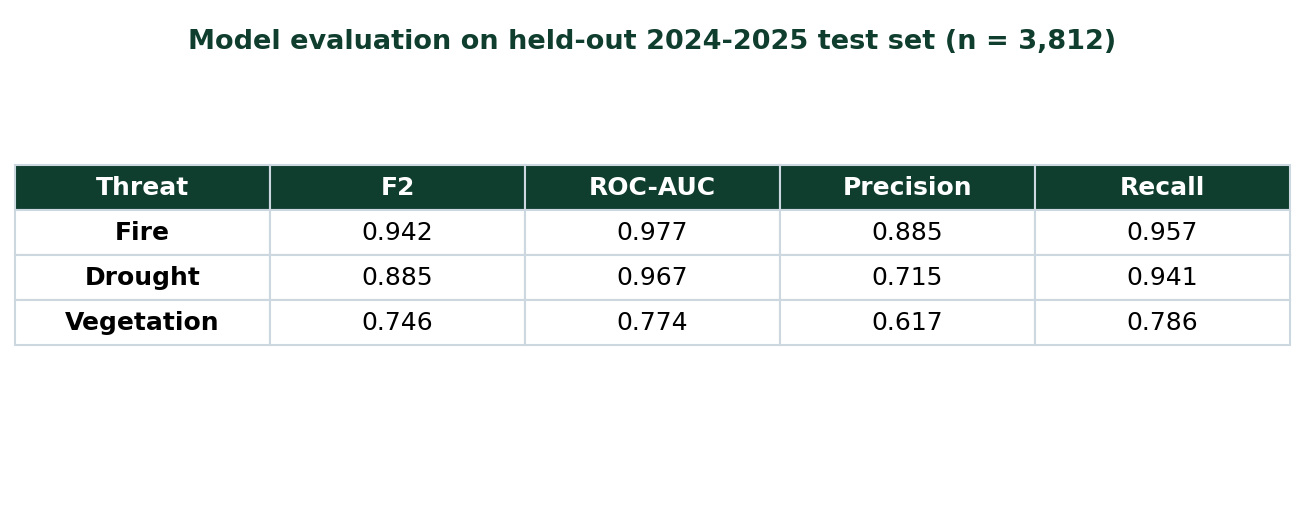
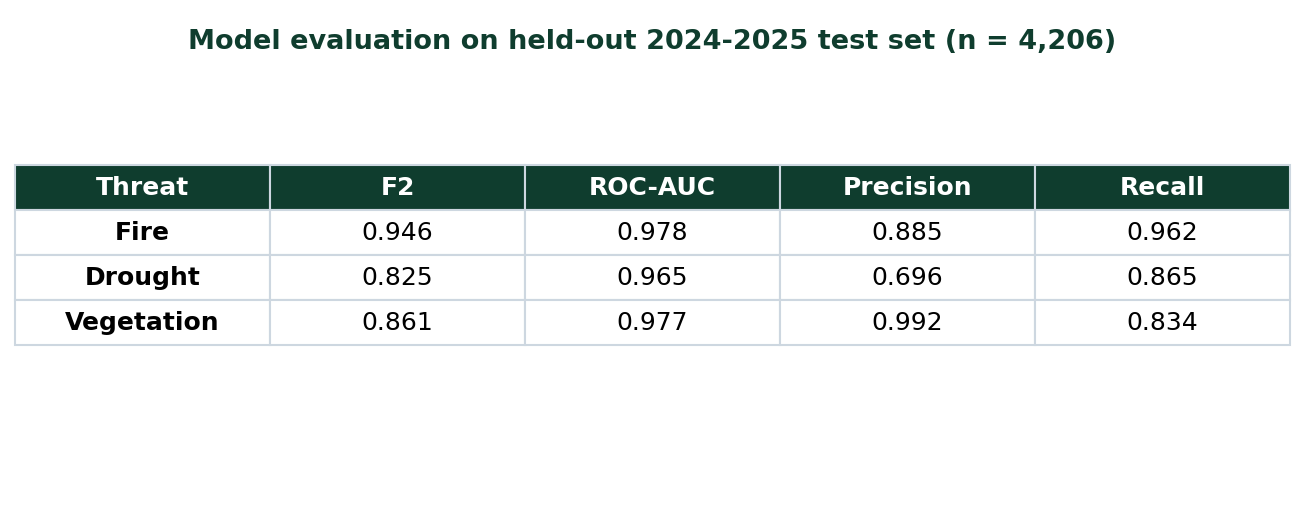
Update docs with post-fix MOD13Q1 metrics; reframe vegetation limitation as resolved (step 6)

diff --git a/docs/ANALYSIS.md b/docs/ANALYSIS.md
@@ -9,12 +9,18 @@ what the milestones mean, and gives recommendations and future work.
 The proposal set out to forecast three threats over a 30-day window for six parks:
 fire, drought, and vegetation degradation. The project met this objective. The
 deployed model produces daily forecasts for all six parks. On a held-out 2024 to
-2025 test set the model scored an F2 of 0.94 for fire, 0.89 for drought, and 0.75
-for vegetation. The fire and drought results are strong. Vegetation is weaker, which
-the discussion examines. Measured against a persistence baseline, the naive forecast
-that the next 30 days resemble the last 30, the model wins on every threat, and by a
-wide margin on drought (F2 0.89 versus 0.40) and fire (0.94 versus 0.78). It is
-therefore learning real structure rather than repeating recent history.
+2025 test set the model scored an F2 of 0.95 for fire, 0.83 for drought, and 0.86
+for vegetation, with ROC-AUC above 0.96 on all three. Fire and vegetation are strong.
+Drought ranks risk just as well (ROC-AUC 0.965) but its F2 sits lower at the fixed 0.5
+threshold; at its best threshold it recovers to about 0.86, so the gap is an
+operating-point effect rather than lost skill. Measured against a persistence baseline,
+the naive forecast that the next 30 days resemble the last 30, the model wins on every
+threat, so it is learning real structure rather than repeating recent history.
+
+Vegetation reached this level only after the limitation described below was fixed. The
+first deployed model collapsed to a near-constant vegetation output because its optical
+NDVI was cloud-blocked in the rainy season; moving to the cloud-composited MODIS MOD13Q1
+source and retraining raised vegetation ROC-AUC from 0.77 to 0.98.
 
 The proposal also called for a comparison of eight model configurations: Random
 Forest, XGBoost, LSTM, and Transformer, each in a supervised and a semi-supervised
@@ -78,17 +84,26 @@ limitation. The drought and vegetation evaluation therefore measures consistency
 with the data the labels came from in part, rather than against a fully independent
 ground truth.
 
-Vegetation forecasting is the weakest part of the system, and a live observation
-sharpened why. Vegetation risk is driven by NDVI, an optical satellite index, and two
-problems compound. First, the model was trained on Sentinel-2 NDVI, but the live
-pipeline reads NDVI from MODIS, a different sensor, so inference sees a source the
-model did not learn on. Second, optical NDVI is blocked by cloud, and during the
-rainy season the daily source is unavailable for most parks, so the vegetation input
-falls back to an imputed value. When that happens the vegetation forecast collapses to
-a near-constant output: on 30 June 2026, five of the six parks returned an identical
-vegetation probability of 0.53, and only the arid Sahel park, Chad Basin, which keeps
-clear-sky NDVI, differed. The vegetation figures should therefore be read with low
-confidence during cloudy periods.
+Vegetation forecasting was the weakest part of the system, and a live observation
+sharpened why, before it was fixed. Vegetation risk is driven by NDVI, an optical
+satellite index, and two problems compounded. First, the model had been trained on
+Sentinel-2 NDVI while the live pipeline read NDVI from MODIS, a different sensor, so
+inference saw a source the model had not learned on. Second, optical NDVI is blocked by
+cloud, and during the rainy season the daily source was unavailable for most parks, so
+the vegetation input fell back to an imputed value. When that happened the vegetation
+forecast collapsed to a near-constant output: on 30 June 2026, five of the six parks
+returned an identical vegetation probability of 0.53, and only the arid Sahel park,
+Chad Basin, which keeps clear-sky NDVI, differed.
+
+This has since been resolved. Both the training and the live serving pipeline were moved
+onto one cloud-robust source, the 16-day MODIS MOD13Q1 composite, which removes both the
+sensor mismatch and the cloud gaps. The model was retrained and re-validated, the
+production database was migrated, and the fix was redeployed. Vegetation now varies
+properly across parks and seasons instead of collapsing, and its held-out ROC-AUC rose
+from 0.77 to 0.98. One caveat remains: the vegetation label is still derived from NDVI,
+the same signal the features use, so the absolute score carries the label-leakage caveat
+above; the genuine gain is that the forecast is no longer degenerate and now
+discriminates.
 
 The threat set follows what free satellite and climate data can measure. It does not
 cover the threats the proposal itself identifies as central to Nigerian parks, such
@@ -126,14 +141,13 @@ apply local knowledge, especially for the threats the model does not cover.
 
 Future work follows from the limitations.
 
-- Move vegetation onto a cloud-robust NDVI source and align training with serving.
-  Replace the daily optical NDVI with a cloud-composited product (the 16-day MODIS
-  MOD13Q1, which keeps the best clear pixel per window) as the primary signal, and add
-  Sentinel-1 radar, which sees through cloud, as a backup for days optical fails.
-  Rebuild the training data on the same source the live system serves so the model no
-  longer faces a sensor mismatch, then retrain and re-validate. Impute any remaining
-  gaps with each park's seasonal NDVI baseline rather than a global default, and mark
-  the vegetation forecast low-confidence when coverage is poor.
+- Cloud-robust vegetation sensing (done, with extensions remaining). The core of this
+  was implemented after submission: both training and serving now use the 16-day MODIS
+  MOD13Q1 composite, which removed the sensor mismatch and the cloud gaps, and the model
+  was retrained, the database migrated, and the fix redeployed (vegetation ROC-AUC rose
+  from 0.77 to 0.98). Remaining extensions: add Sentinel-1 radar as a cloud-independent
+  backup, impute any residual gaps with each park's seasonal NDVI baseline rather than a
+  global default, and flag the vegetation forecast low-confidence when coverage is poor.
 - Replace the climate-derived drought and vegetation labels with independent ground
   truth to remove the label leakage.
 - Add deployment logging so the system tracks actual unit use against the 30-day

diff --git a/docs/TESTING.md b/docs/TESTING.md
@@ -47,19 +47,23 @@ Result: `17 passed`.
 
 ### 1.2 Model evaluation on held-out data
 The model was trained on 2020 to 2023 and evaluated on a temporally separate
-2024 to 2025 test set (n = 3,812 park-day rows it never saw during training).
+2024 to 2025 test set (n = 4,206 park-day rows it never saw during training).
 F2 is the primary metric because missing a real threat is worse than a false alarm.
+These figures are for the current model, which sources NDVI from the cloud-composited
+MODIS MOD13Q1 product (see the vegetation note in `ANALYSIS.md`).
 
 | Threat | F2 | Persistence F2 (baseline) | ROC-AUC | Precision | Recall |
 |---|---|---|---|---|---|
-| Fire | 0.942 | 0.780 | 0.977 | 0.885 | 0.957 |
-| Drought | 0.885 | 0.399 | 0.967 | 0.715 | 0.941 |
-| Vegetation | 0.746 | 0.480 | 0.774 | 0.617 | 0.786 |
+| Fire | 0.946 | 0.780 | 0.978 | 0.885 | 0.962 |
+| Drought | 0.825 | 0.354 | 0.965 | 0.696 | 0.865 |
+| Vegetation | 0.861 | 0.708 | 0.977 | 0.992 | 0.834 |
 
 The persistence baseline (the naive forecast that assumes the next 30 days resemble the
-last 30) is the minimum useful-forecast bar. The model clears it on every threat, most
-decisively on drought (0.885 vs 0.399). Fire and drought are strong; vegetation is
-moderate, which the analysis discusses.
+last 30) is the minimum useful-forecast bar. The model clears it on every threat. Fire
+and vegetation are strong. Drought ranks risk just as well (ROC-AUC 0.965) but its F2 is
+lower at the fixed 0.5 threshold; at its best threshold drought F2 recovers to about 0.86,
+so this is an operating-point effect rather than lost skill. Vegetation ROC-AUC rose from
+0.77 to 0.98 once the earlier rainy-season NDVI collapse was fixed.
 
 ![Model evaluation metrics on the held-out test set](screenshots/model_metrics.png)
 *Held-out 2024-2025 test metrics for the production model.*
@@ -172,7 +176,7 @@ single column on small screens.
 | Strategy | Outcome |
 |---|---|
 | Unit tests (pytest) | 17 / 17 pass |
-| Model evaluation (held-out 2024-2025) | Fire F2 0.94, Drought F2 0.89, Vegetation F2 0.75 |
+| Model evaluation (held-out 2024-2025) | Fire F2 0.95, Drought F2 0.83, Vegetation F2 0.86 (ROC-AUC 0.98) |
 | Integration / API | All endpoints behave as specified, including auth and the job token |
 | End-to-end (browser) | Full journey works on the deployed site |
 | Different data values | Recommender scales with budget and stays within it; per-park forecasts differ |

diff --git a/README.md b/README.md
@@ -163,7 +163,7 @@ Run the automated test suite from the project root:
 python -m pytest tests/ -v
 ```
 
-17 unit tests pass, covering the ILP optimiser (budget, capacity, type toggles, urgency floors) and authentication (bcrypt hashing, password policy, JWT access / reset tokens). The full testing record — unit tests, model evaluation on a held-out 2024–2025 test set (Fire F2 0.94, Drought 0.89, Vegetation 0.75), API / integration tests, different-data-value runs, and performance across local and cloud — is in **[`docs/TESTING.md`](docs/TESTING.md)**.
+19 unit tests pass, covering the ILP optimiser (budget, capacity, type toggles, urgency floors, recommendation rationale) and authentication (bcrypt hashing, password policy, JWT access / reset tokens). The full testing record — unit tests, model evaluation on a held-out 2024–2025 test set (Fire F2 0.95, Drought 0.83, Vegetation 0.86), API / integration tests, different-data-value runs, and performance across local and cloud — is in **[`docs/TESTING.md`](docs/TESTING.md)**.
 
 ---
 
@@ -190,7 +190,7 @@ Production behaviour is gated on `ENVIRONMENT=production`: the auth cookie becom
 
 ## Video demo
 
-https://drive.google.com/file/d/13hFM-HJQQouwi9S0ZQP2i-dPRxxds7mD/view?usp=sharing
+https://drive.google.com/file/d/1mZziLe36QYS3TXh2ZXmO8vQCw-OKjNTA/view?usp=drivesdk
 
 ---
 
